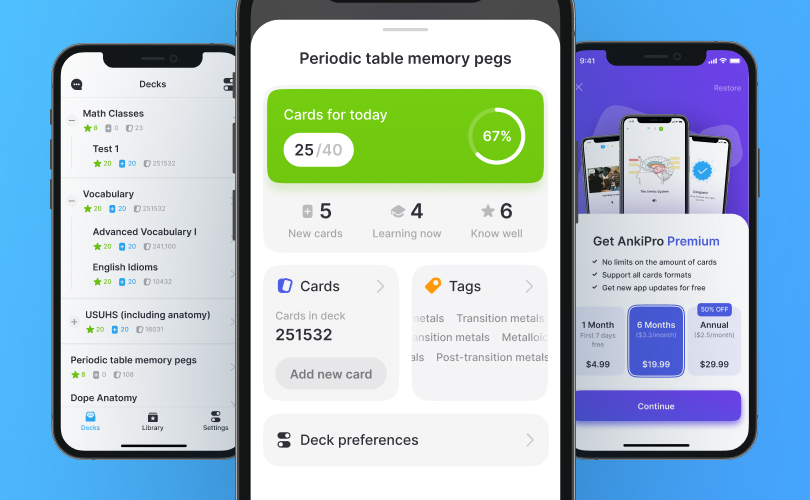
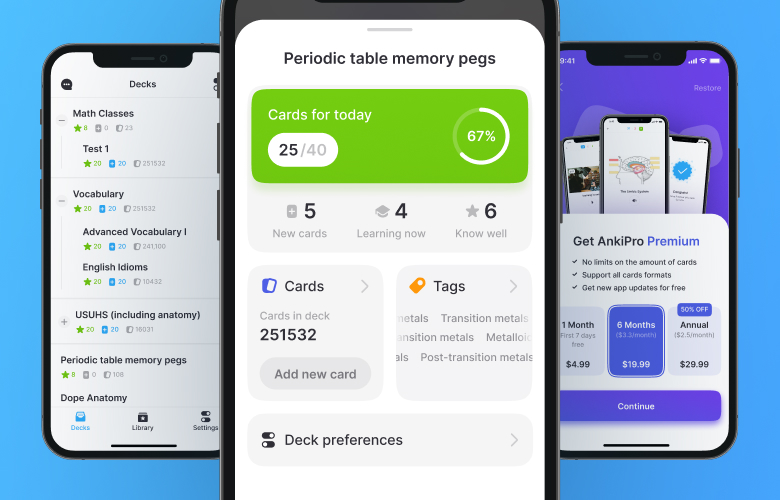
fix image heights new images

diff --git a/style.css b/style.css
@@ -318,10 +318,14 @@ main {
 .project__image-wrapper {
   position: relative;
   width: 100%;
+  height: 100%;
 }
 
 .project__image {
+  display: block;
   width: 100%;
+  height: 100%;
+  object-fit: cover;
   transition-duration: var(--animation-speed--mid);
   transition-timing-function: cubic-bezier(.43,1.09,.99,1);
   -webkit-transition-duration: var(--animation-speed--mid);
@@ -350,7 +354,7 @@ main {
   background-color: var(--main-bg-color);
   border: 1px solid rgba(255, 255, 255, 0.4);
   border-radius: 100px;
-  padding: 30px 40px 30px 40px;
+  padding: 20px 30px 20px 30px;
   transition-duration: var(--animation-speed--mid);
   transition-timing-function: cubic-bezier(.43,1.09,.99,1);
   -webkit-transition-duration: var(--animation-speed--mid);
